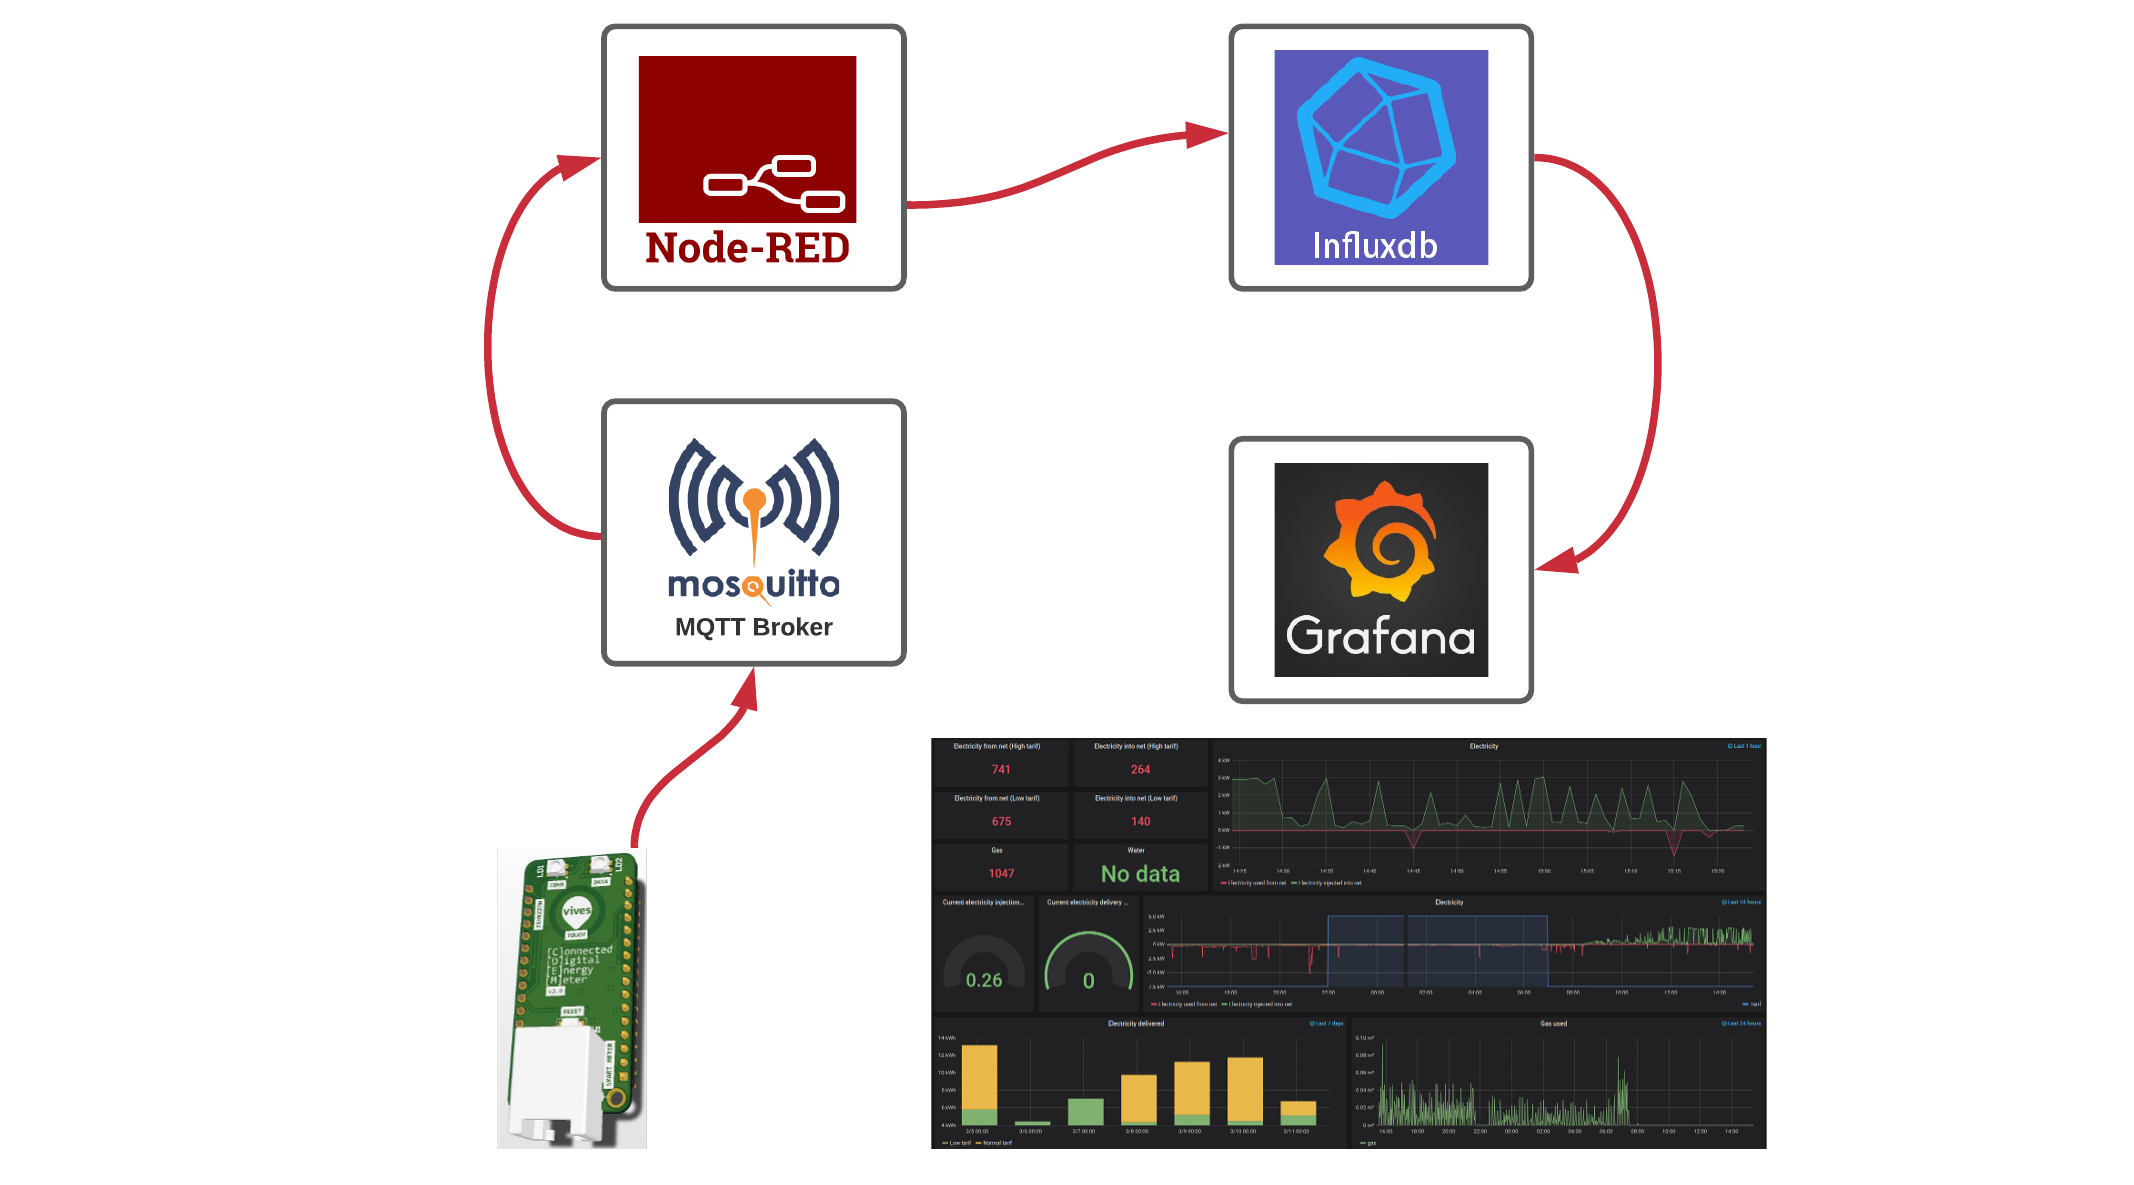
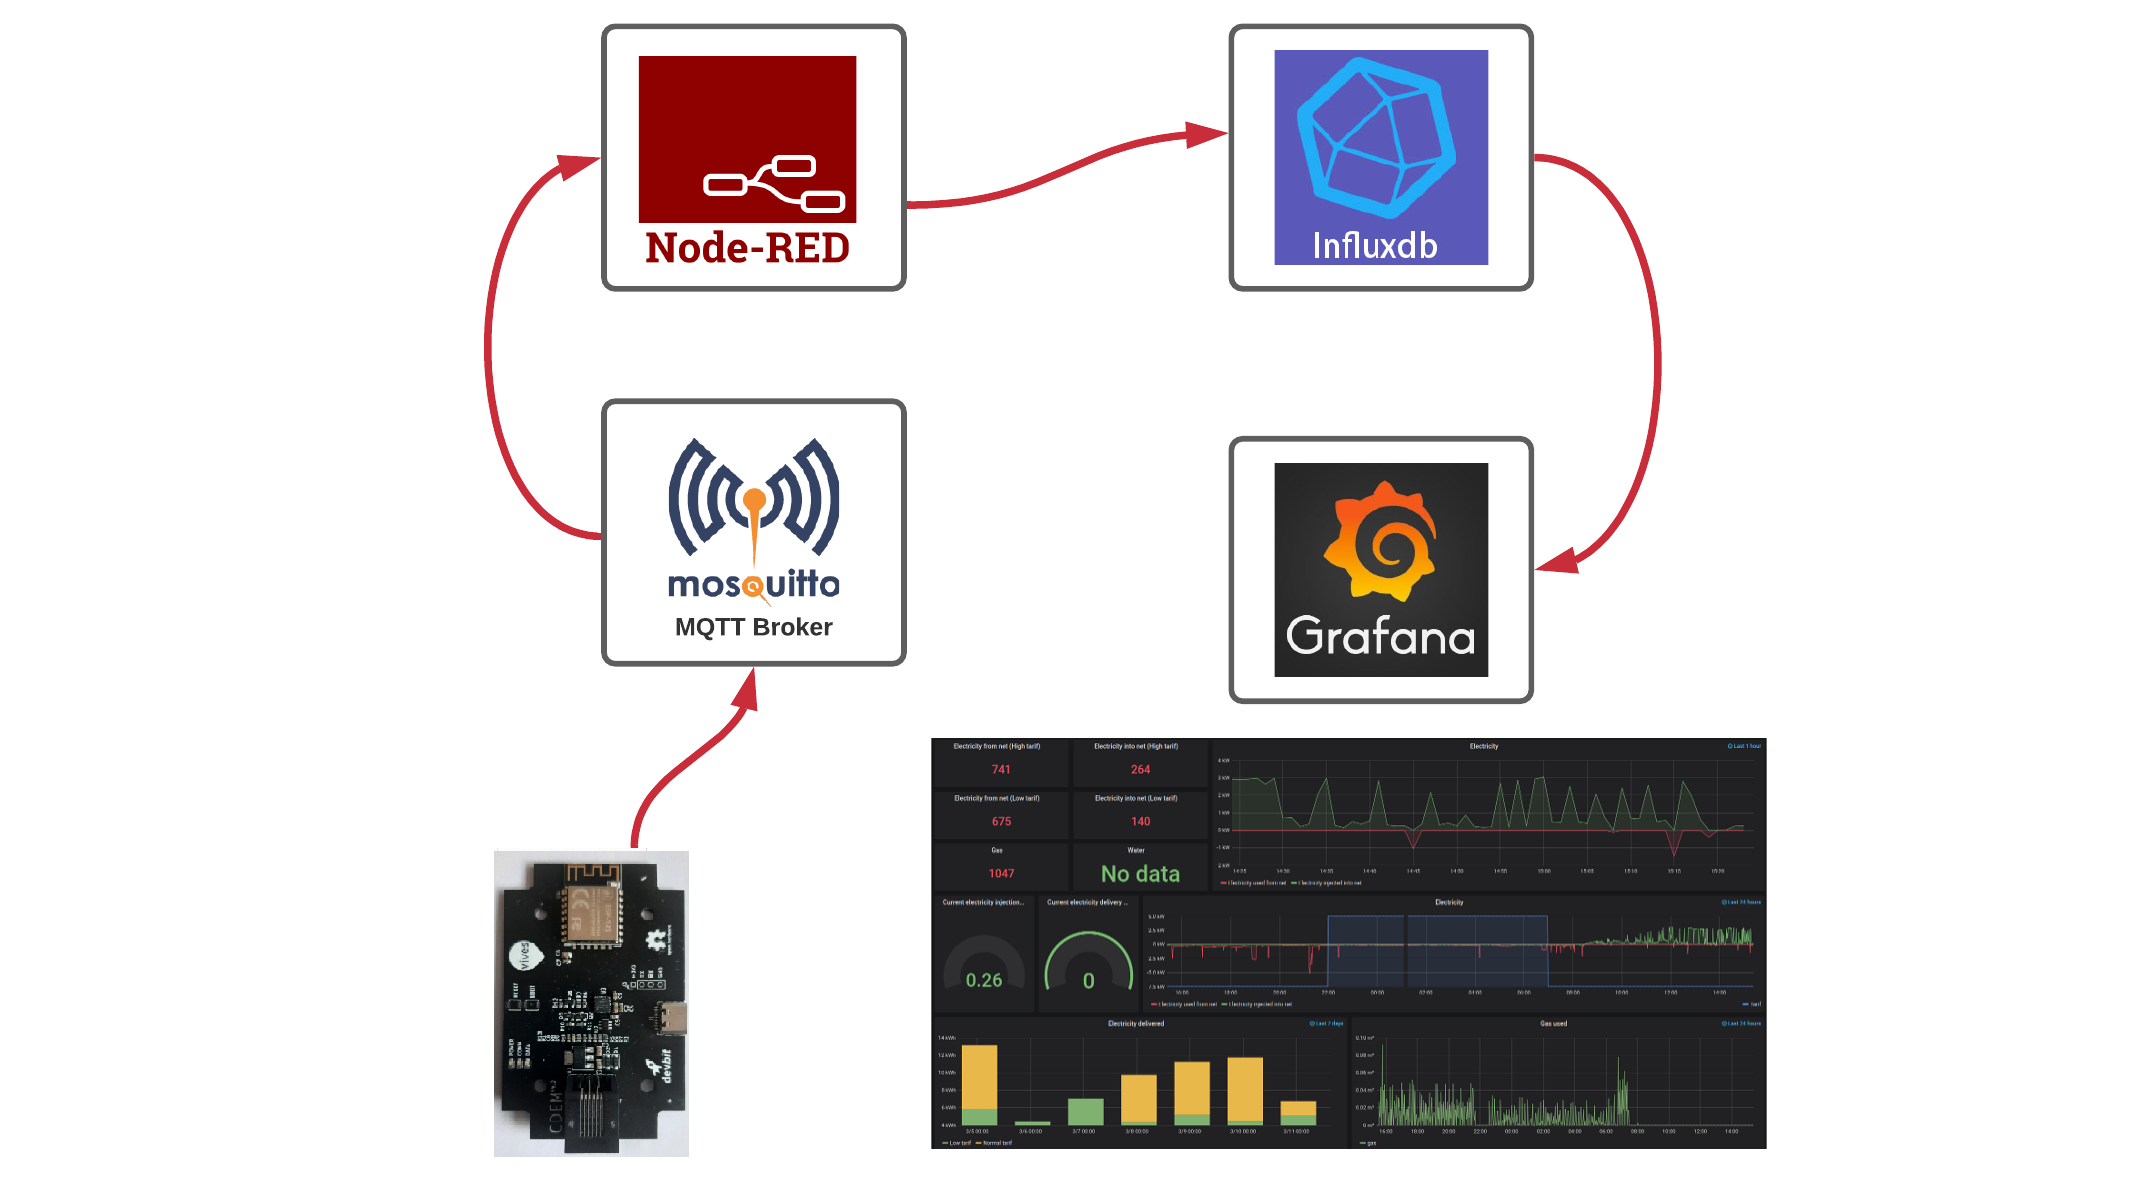
further updates

Changed region(s): [[0.2165, 0.7181, 0.3402, 0.9992]]

diff --git a/docs/13_technical/README.md b/docs/13_technical/README.md
@@ -44,6 +44,8 @@ The `P1` interface provides a stable `+5V DC` power supply via `pin 1` (5V) and 
 
 U = 5,0 V ( max = 5,5 V with I = 0 mA , min = 4,9 V with I = 250 mA )
 
+Here we run into our first problem. The maximum output for the power supply is 250 mA which is at the limit for booting a ESP12 chipset.
+
 #### Data request
 
 The P1 port is activated (will start sending data) by setting "Data request" (pin 2) high (4,0V to 5,5V). While receiving data, this line must be kept high.
@@ -54,7 +56,7 @@ To stop receiving data the "Data request" line must be put in a high impedance m
 
 #### Data
 
-Here we run into our first problem. Due to the use of opto couplers, the "Data" (pin 5) line must be designed as an **Open Collector** output and must be **logically inverted** before it can be used with IoT device ( Raspberry Pi, ESP32, Arduino, ...).
+Here we run into our second problem. Due to the use of opto couplers, the "Data" (pin 5) line must be designed as an **Open Collector** output and must be **logically inverted** before it can be used with IoT device ( Raspberry Pi, ESP12, Arduino, ...).
 
 A "Data" line LOW has a voltage of 0,2 V (0 - 1V), HIGH has a voltage of 5,0V with a maximum current of 30 mA.
 
@@ -65,7 +67,7 @@ The solution is either to use a pre-made cable like for instance [this one](http
 
 ### Communication protocol
 
-Here we run into our second problem. The P1 communication protocol of a Fluvius Smart Meter is based on the DSMR 5 standard used in the Netherlands but extended with the e-Mucs specifications. Therefore all solutions found on the internet for the Netherlands are not applicable for the Fluvius Smart Meter.
+Here we run into our third problem. The P1 communication protocol of a Fluvius Smart Meter is based on the DSMR 5 standard used in the Netherlands but extended with the e-Mucs specifications. Therefore all solutions found on the internet for the Netherlands are not applicable for the Fluvius Smart Meter.
 
 #### Transfert speed and character formatting
 
@@ -102,38 +104,38 @@ For more information on the OBIS codes see the [DSMR 5 standard](/files/dsmr5.pd
 
 | OBIS reference | Value | Example |
 |---|---|---|
-| 0-0:96.1.1.255 | Equipment identifier | 0-0:96.1.1(4B384547303034303436333935353037) |
-| 1-0:1.8.1.255 | Meter Reading electricity consumption (normal tariff) in 0,001 kWh | 1-0:1.8.1(123456.789*kWh) |
-| 1-0:1.8.2.255 | Meter Reading electricity consumption (low tariff) in 0,001 kWh | 1-0:1.8.2(123456.789*kWh) |
-| 1-0:2.8.1.255 | Meter Reading electricity injected (normal tariff) in 0,001 kWh | 1-0:2.8.1(123456.789*kWh) |
-| 1-0:2.8.2.255 | Meter Reading electricity injected (low tariff) in 0,001 kWh | 1-0:2.8.2(123456.789*kWh) |
-| 0-0:96.14.0.255 | Tariff indicator electricity. **(1=normal, 2=low)** | 0-0:96.14.0(0002) |
-| 1-0:1.7.0.255 | Actual electricity power consumption in 1 Watt resolution | 1-0:1.7.0(01.193*kW) |
-| 1-0:2.7.0.255 | Actual electricity power injected in 1 Watt resolution | 1-0:2.7.0(00.000*kW) |
-| 0-0:96.7.21.255 | Number of power failures in any phases | 0-0:96.7.21(00004) |
-| 0-0:96.7. 9.255 | Number of long power failures in any phases | 0-0:96.7.9(00002) |
-| 1-0:99:97.0.255 | Power failure event log | 1-0:99.97.0(2)(0-0:96.7.19)(101208152415W)(0000000240*s)(101208151004W)(0000000301*s) |
-| 1-0:32.32.0.255 | Number of voltage sags in phase L1 | 1-0:32.32.0(00002) |
-| 1-0:52.32.0.255 | Number of voltage sags in phase L2 | 1-0:52.32.0(00001) |
-| 1-0:72.32.0.255 | Number of voltage sags in phase L3 | 1-0:72.32.0(00000) |
-| 1-0:32.36.0.255 | Number of voltage swells in phase L1 | 1-0:32.36.0(00000) |
-| 1-0:52.36.0.255 | Number of voltage swells in phase L2 | 1-0:52.36.0(00003) |
-| 1-0:72.36.0.255 | Number of voltage swells in phase L3 | 1-0:72.36.0(00000) |
-| 1-0:32.7.0.255 | Instantaneous voltage L1 | 1-0:32.7.0(220.1*V) |
-| 1-0:52.7.0.255 | Instantaneous voltage L2 | 1-0:52.7.0(220.2*V) |
-| 1-0:72.7.0.255 | Instantaneous voltage L3 | 1-0:72.7.0(220.3*V) |
-| 1-0:31.7.0.255 | Instantaneous current L1 | 1-0:31.7.0(001*A) |
-| 1-0:51.7.0.255 | Instantaneous current L2 | 1-0:51.7.0(002*A) |
-| 1-0:71.7.0.255 | Instantaneous current L3 | 1-0:71.7.0(003*A) |
-| 1-0:21.7.0.255 | Instantaneous active power consumption L1 | 1-0:21.7.0(01.111*kW) |
-| 1-0:41.7.0.255 | Instantaneous active power consumption L2 | 1-0:41.7.0(02.222*kW) |
-| 1-0:61.7.0.255 | Instantaneous active power consumption L3 | 1-0:61.7.0(03.333*kW) |
-| 1-0:22.7.0.255 | Instantaneous active power injected L1 | 1-0:22.7.0(04.444*kW) |
-| 1-0:42.7.0.255 | Instantaneous active power injected L2 | 1-0:42.7.0(05.555*kW) |
-| 1-0:62.7.0.255 | Instantaneous active power injected L3 | 1-0:62.7.0(06.666*kW) |
-| 0-0:96.3.10.255 | Breaker state | 0-0:96.3.10(1) |
-| 0-0:17.0.0.255 | Limiter treshold | 0-0:17.0.0(123.4*kW) |
-| 1-0:31.4.0.255 | Fuse supervision threshold (L1) | 1-0:31.4.0(001*A) |
+| 0-0:96.1.1 | Equipment identifier | 0-0:96.1.1(4B384547303034303436333935353037) |
+| 1-0:1.8.1 | Meter Reading electricity consumption (normal tariff) in 0,001 kWh | 1-0:1.8.1(123456.789*kWh) |
+| 1-0:1.8.2 | Meter Reading electricity consumption (low tariff) in 0,001 kWh | 1-0:1.8.2(123456.789*kWh) |
+| 1-0:2.8.1 | Meter Reading electricity injected (normal tariff) in 0,001 kWh | 1-0:2.8.1(123456.789*kWh) |
+| 1-0:2.8.2 | Meter Reading electricity injected (low tariff) in 0,001 kWh | 1-0:2.8.2(123456.789*kWh) |
+| 0-0:96.14.0 | Tariff indicator electricity. **(1=normal, 2=low)** | 0-0:96.14.0(0002) |
+| 1-0:1.7.0 | Actual electricity power consumption in 1 Watt resolution | 1-0:1.7.0(01.193*kW) |
+| 1-0:2.7.0 | Actual electricity power injected in 1 Watt resolution | 1-0:2.7.0(00.000*kW) |
+| 0-0:96.7.21 | Number of power failures in any phases | 0-0:96.7.21(00004) |
+| 0-0:96.7. 9 | Number of long power failures in any phases | 0-0:96.7.9(00002) |
+| 1-0:99:97.0 | Power failure event log | 1-0:99.97.0(2)(0-0:96.7.19)(101208152415W)(0000000240*s)(101208151004W)(0000000301*s) |
+| 1-0:32.32.0 | Number of voltage sags in phase L1 | 1-0:32.32.0(00002) |
+| 1-0:52.32.0 | Number of voltage sags in phase L2 | 1-0:52.32.0(00001) |
+| 1-0:72.32.0 | Number of voltage sags in phase L3 | 1-0:72.32.0(00000) |
+| 1-0:32.36.0 | Number of voltage swells in phase L1 | 1-0:32.36.0(00000) |
+| 1-0:52.36.0 | Number of voltage swells in phase L2 | 1-0:52.36.0(00003) |
+| 1-0:72.36.0 | Number of voltage swells in phase L3 | 1-0:72.36.0(00000) |
+| 1-0:32.7.0 | Instantaneous voltage L1 | 1-0:32.7.0(220.1*V) |
+| 1-0:52.7.0 | Instantaneous voltage L2 | 1-0:52.7.0(220.2*V) |
+| 1-0:72.7.0 | Instantaneous voltage L3 | 1-0:72.7.0(220.3*V) |
+| 1-0:31.7.0 | Instantaneous current L1 | 1-0:31.7.0(001*A) |
+| 1-0:51.7.0 | Instantaneous current L2 | 1-0:51.7.0(002*A) |
+| 1-0:71.7.0 | Instantaneous current L3 | 1-0:71.7.0(003*A) |
+| 1-0:21.7.0 | Instantaneous active power consumption L1 | 1-0:21.7.0(01.111*kW) |
+| 1-0:41.7.0 | Instantaneous active power consumption L2 | 1-0:41.7.0(02.222*kW) |
+| 1-0:61.7.0 | Instantaneous active power consumption L3 | 1-0:61.7.0(03.333*kW) |
+| 1-0:22.7.0 | Instantaneous active power injected L1 | 1-0:22.7.0(04.444*kW) |
+| 1-0:42.7.0 | Instantaneous active power injected L2 | 1-0:42.7.0(05.555*kW) |
+| 1-0:62.7.0 | Instantaneous active power injected L3 | 1-0:62.7.0(06.666*kW) |
+| 0-0:96.3.10 | Breaker state | 0-0:96.3.10(1) |
+| 0-0:17.0.0 | Limiter treshold | 0-0:17.0.0(123.4*kW) |
+| 1-0:31.4.0 | Fuse supervision threshold (L1) | 1-0:31.4.0(001*A) |
 
 ::: warning Warning
 The Obis-references for High and Low tarif are switched for the Belgian meter compared to the Dutch meter!
@@ -144,36 +146,36 @@ The Obis-references for High and Low tarif are switched for the Belgian meter co
 
 | OBIS reference | Value | Example |
 |---|---|---|
-| 0-0:96.1.4.255 | Version information | 0-0:96.1.4(50) |
-| 0-0:96.13.0.255 | Text message max 1024 characters. | 0:96.13.0(303132333435363738393A3B3C3D3E3F3031) |
-| 0-0:96.13.1.255 | Consumer message code | 0-0:96.13.1(3031203631203831) |
+| 0-0:96.1.4 | Version information | 0-0:96.1.4(50) |
+| 0-0:96.13.0 | Text message max 1024 characters. | 0:96.13.0(303132333435363738393A3B3C3D3E3F3031) |
+| 0-0:96.13.1 | Consumer message code | 0-0:96.13.1(3031203631203831) |
 
 ##### Gas data
 
 | OBIS reference | Value | Example |
 |---|---|---|
-| 0-n:24.1.0.255 | Device-Type | 0-1:24.1.0(003) |
-| 0-n:96.1.0.255 | Equipment identifier | 0-1:96.1.0(3232323241424344313233343536373839) |
-| 0-n:24.2.1.255 | Last 5-minute value (temperature converted), gas delivered to client in m3, including decimal values and capture time | 0-1:24.2.1(101209112500W)(12785.123*m3) |
-| 0-n:96.1.1.255 | M-Bus Device ID 2 |  0-1:96.1.1(3232323241424344313233343536373839) |
-| 0-n:24.4.0.255 | Valve state | 0-1:24.4.0(1) |
-| 0-n:24.2.3.255 | Last value of ‘not temperature corrected’ gas volume in m³, including decimal values and capture time | 0-1:24.2.3(101209112500W)(12785.123*m3) | 
+| 0-n:24.1.0 | Device-Type | 0-1:24.1.0(003) |
+| 0-n:96.1.0 | Equipment identifier | 0-1:96.1.0(3232323241424344313233343536373839) |
+| 0-n:24.2.1 | Last 5-minute value (temperature converted), gas delivered to client in m3, including decimal values and capture time | 0-1:24.2.1(101209112500W)(12785.123*m3) |
+| 0-n:96.1.1 | M-Bus Device ID 2 |  0-1:96.1.1(3232323241424344313233343536373839) |
+| 0-n:24.4.0 | Valve state | 0-1:24.4.0(1) |
+| 0-n:24.2.3 | Last value of ‘not temperature corrected’ gas volume in m³, including decimal values and capture time | 0-1:24.2.3(101209112500W)(12785.123*m3) | 
 
 ##### Thermal data
 
 | OBIS reference | Value | Example |
 |---|---|---|
-| 0-n:24.1.0.255 | Device-Type | 0-1:24.1.0(003) |
-| 0-n:96.1.0.255 | Equipment identifier | 0-1:96.1.0(3232323241424344313233343536373839) |
-|  0-n:24.2.1.255 | Last 5-minute Meter reading Heat or Cold in 0,01 GJ and capture time | 0-1:24.2.1(12.34*GJ) |
+| 0-n:24.1.0 | Device-Type | 0-1:24.1.0(003) |
+| 0-n:96.1.0 | Equipment identifier | 0-1:96.1.0(3232323241424344313233343536373839) |
+|  0-n:24.2.1 | Last 5-minute Meter reading Heat or Cold in 0,01 GJ and capture time | 0-1:24.2.1(12.34*GJ) |
 
 ##### Water data
 
 | OBIS reference | Value | Example |
 |---|---|---|
-| 0-n:24.1.0.255 | Device-Type | 0-1:24.1.0(003) |
-| 0-n:96.1.0.255 | Equipment identifier | 0-1:96.1.0(3232323241424344313233343536373839) |
-| 0-n:24.2.1.255 | Last 5-minute Meter reading in 0,001m3 and capture time | 0-1:24.2.1(12785.123*m3) |
+| 0-n:24.1.0 | Device-Type | 0-1:24.1.0(003) |
+| 0-n:96.1.0 | Equipment identifier | 0-1:96.1.0(3232323241424344313233343536373839) |
+| 0-n:24.2.1 | Last 5-minute Meter reading in 0,001m3 and capture time | 0-1:24.2.1(12785.123*m3) |
 
 ::: warning Warning
 Be aware of the fact that the number of OBIS codes and the order of them is not fixed. Therefore the connected IoT device must be able to interpret the P1 telegram.

diff --git a/docs/14_faq/README.md b/docs/14_faq/README.md
@@ -7,9 +7,13 @@ It is adviced to keep all the information localy and not in the cloud because it
 ## How can i use this device to save on my energy bill?
 
 * For starters you can use the output of your production ( if you have solar pannels ) and your consumption of energy to detect when u use most energy and at what tarif you use it. If you can figure out what devices or actions cause that energy usage you can adjust your habits so u use energy when it is least expensive for you.
-* If you have a domotics system you can automate the above and cut the power to certain appliance when the energy price is high and your production is low. 
+* If you have a domotics system you can automate the above and cut the power to certain appliance when the energy price is high and your production is low.
+
+More info is provided in the chapter [Energy Efficiency](/12_energysavings).
 
 ## Troubleshooting
+
+<!-- TODO: aanpassen aan de nieuwe versie van hardware/firmware -->
 
 If your setup doesn't do the expeceted you can folow these problem detecting steps:
 
@@ -30,4 +34,10 @@ If your setup doesn't do the expeceted you can folow these problem detecting ste
 4. Are you connected to internet?
 
    - Check if you have internet connection in your network. If not, it is possible that your network is unable to reach a DNS server and therefore has trouble locating your devices.
+
+## My CDEM is rebooting unexpectedly
+
+When u notice that your CDEM is rebooting unexpectedly from time to time, then it may well be that the power supply of your Fluvius Meter is insufficient. We then advice you to use a external USB power supply to power your CDEM.
+
+![IMAGE](./images/power_supply.jpg)
 

diff --git a/docs/08_building_a_dashboard/README.md b/docs/08_building_a_dashboard/README.md
@@ -1,9 +1,10 @@
 # Building a Dashboard
 
-Once your meter data reaches the MQTT broker it can basically be coupled to anything. Think [Home Assistant](https://www.home-assistant.io/), [openHAB](https://www.openhab.org/), [Node-RED](https://nodered.org/), [Grafana](https://grafana.com/), ... and if you know you way around any programming languages, changes are there is an MQTT library available.
+Once your meter data reaches the MQTT broker it can basically be coupled to anything. Think [Home Assistant](https://www.home-assistant.io/), [openHAB](https://www.openhab.org/), [Node-RED](https://nodered.org/), [Grafana](https://grafana.com/), ... and if you know you way around any programming languages, chances are there is an MQTT library available.
+
+In this chapter we'll describe the process of setting up a Grafana dashboard. No programming knowledge is required, it just takes some basic configuration and you'll see your telemetry flash by in no time.
 
 ![Grafana Dashboard](./images/dashboard.png)
-In this chapter we'll describe the process of setting up a Grafana dashboard. No programming knowledge is required, it just takes some basic configuration and you'll see your telemetry flash by in no time.
 
 Because this setup should be running at all times, you will need a device to host the services we'll be setting up. This can be a PC, NAS or for example a Raspberry Pi. The services we will be setting up include [InfluxDB](https://www.influxdata.com/), [Node-RED](https://nodered.org/) and [Grafana](https://grafana.com/).
 

diff --git a/docs/12_energysavings/README.md b/docs/12_energysavings/README.md
@@ -1,7 +1,5 @@
 # Energy Efficiency
 
-![UNDER CONSTRUCTION](./images/underconstruction.jpg)
-
 Things become interesting when you use the information from the Fluvius Smart Meter combined with other information from your home or third party's in order to automate some of your energy usage. The main goal here will be to use the energy more effeciently.
 
 ## Smart plug
@@ -24,11 +22,14 @@ One could set the following rules (example for a boiler):
 ![IMAGE](./images/afbeelding1.png)
 
 @t1:
-* Use a the weather prediction or solar forcast (see further in this chapter) to figure out if you can expect solar energy producton or not.
+* Use a the weather prediction or solar forcast (see further in this chapter) to figure out if you can expect solar energy production or not.
 * If you can't expect much solar energy production you switch on the boiler on.
 
 @t2:
-* If the boiler wasn't active @t1 then switch it on.
+* If the boiler wasn't active @t1 then switch it on if there is sufficient energy injected into the net.
+
+@Start low tarif:
+* If the boiler hasn't been switched on today then switch it on.
 
 To determine the t1 and t2 timestamps the boiler follow these instructions:
 1. Wait until the start of low tariff and then unplug your boiler.

diff --git a/docs/02_hardware/README.md b/docs/02_hardware/README.md
@@ -21,10 +21,12 @@ When ordering your pcb you will need to upload the following information:
 
 We can advice the following suppliers :
 
-<!-- TODO: een lijst met mogelijke pcb leveranciers toevoegen -->
-* supplier 1
-* supplier 2
-* supplier 3
+* [JLCPCB](https://jlcpcb.com/)
+<figure class="video_container">
+  <iframe src="https://jlcpcb.com/video/place.v2.mp4" frameborder="0" allowfullscreen="true"> </iframe>
+</figure>
+* [ALLPCB](https://www.allpcb.com/)
+* [PCBWay](https://www.pcbway.com/)
 
 ## RJ12 cable 
 

diff --git a/docs/05_configuration/README.md b/docs/05_configuration/README.md
@@ -2,8 +2,6 @@
 
 ![UNDER CONSTRUCTION](./images/underconstruction.jpg)
 
-<!-- TODO: volledig wijzigen naar de webinterface configuratie -->
-
 Upon the first startup of the firmware, the factory default settings are loaded. These default settings need to be altered to suit your own home network configuration before the device will function correctly.
 
 ::: warning ✋ Configuration is Mandatory
